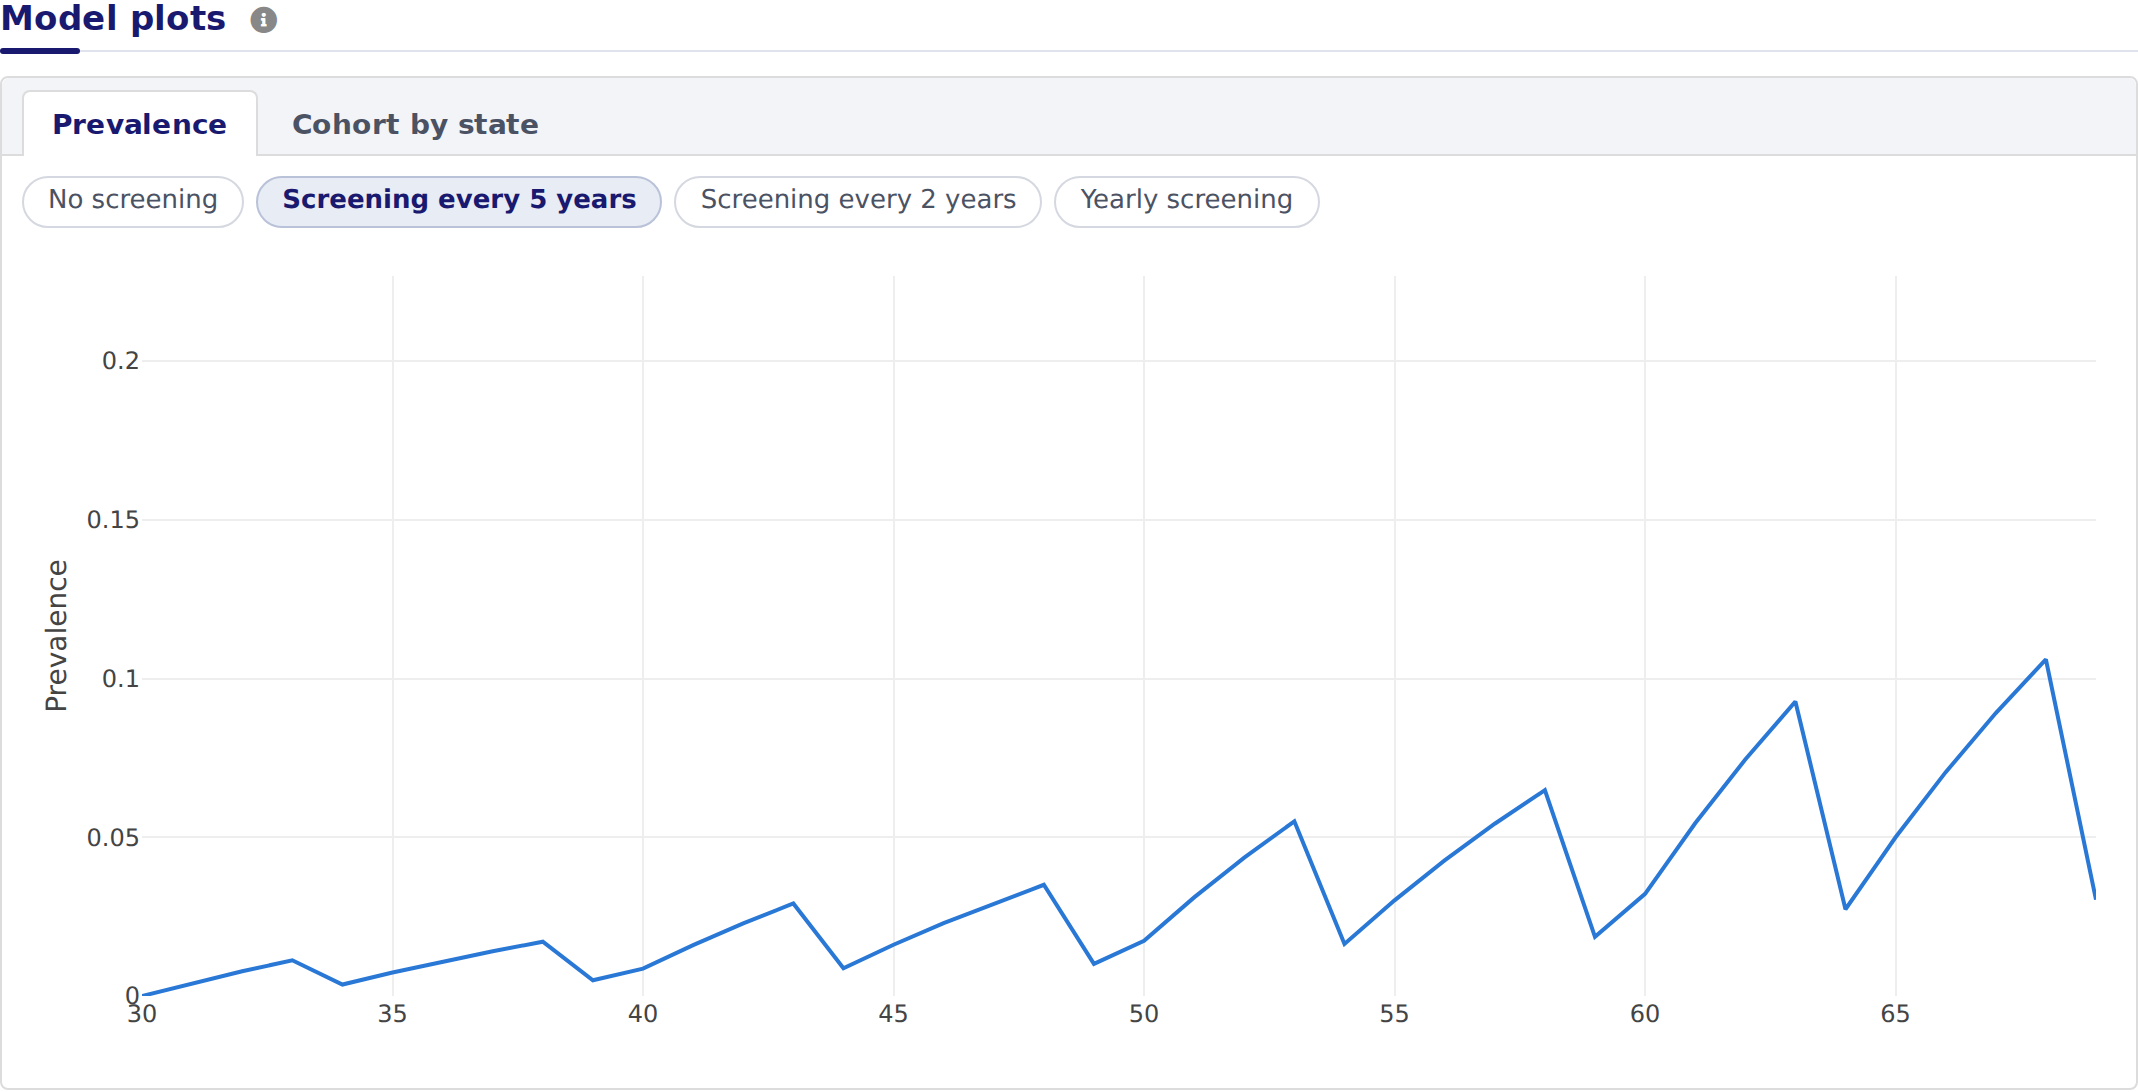
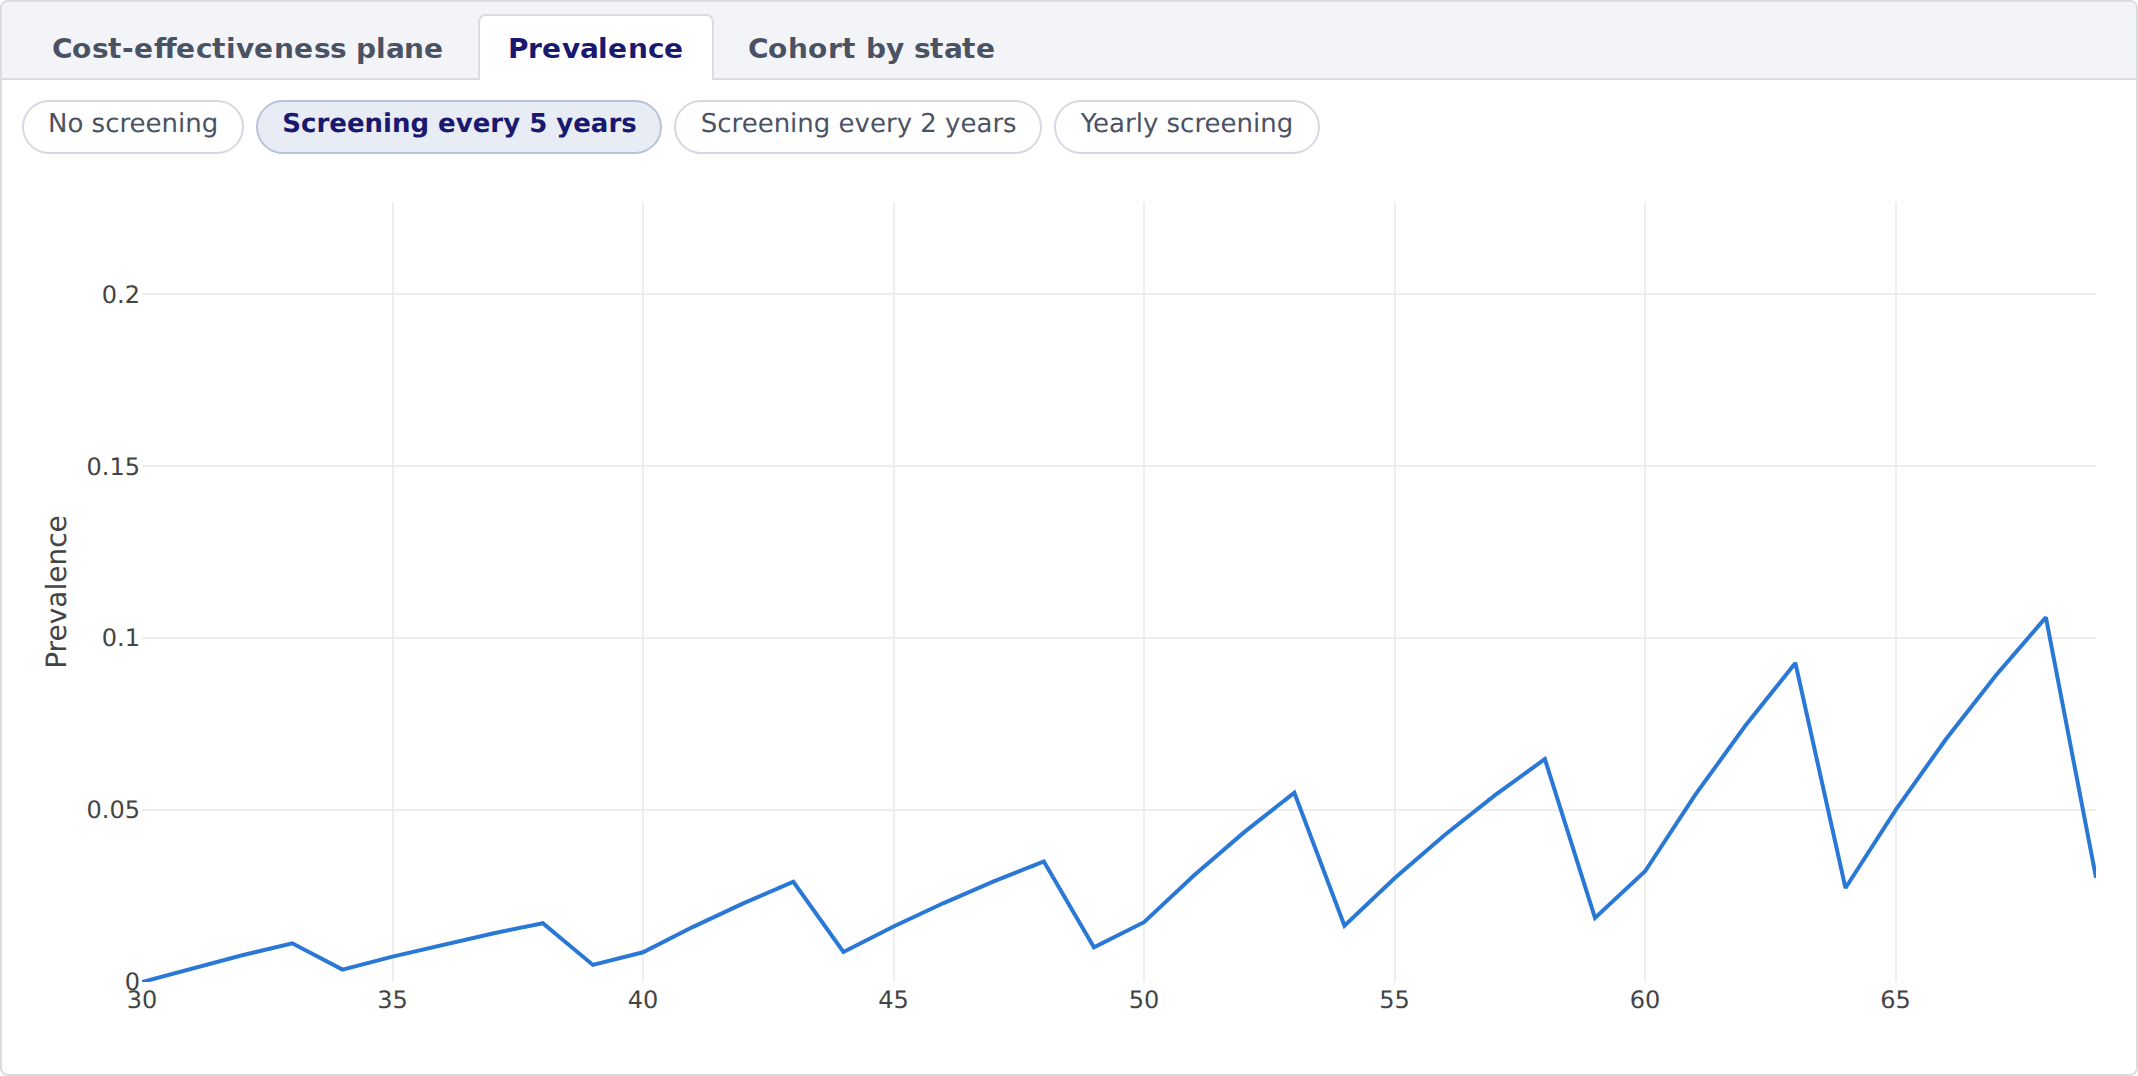
Presentation 4: show the plots of the base case as tabs after the plane

diff --git a/tutorial.md b/tutorial.md
@@ -64,14 +64,15 @@ strategy.plots <- function(trace) {
   axis, and a line in each of the others: here the share of the cohort
   in each state.
 
-Each is a tab of the *Model plots* box, under the outcomes table, with a
-button for each strategy under the tabs. Every strategy is drawn on the
-same vertical axis, so going from one to the next shows what screening
-changes. The prevalence of a screening strategy drops at every screen:
+Each is a tab of the Base case tab, after the cost-effectiveness plane,
+with a button for each strategy under the tabs. Every strategy is drawn
+on the same vertical axis, so going from one to the next shows what
+screening changes. The prevalence of a screening strategy drops at every
+screen:
 
 <figure style="margin: 15px 0;">
-<img src="https://raw.githubusercontent.com/david-gomez-guillen/cea-model-tutorial/presentation-4-plots/images/presentation4_basecase.png" alt="The model plots of the base case" style="max-width: 100%;" />
-<figcaption style="font-style: italic;">The model plots of the base case</figcaption>
+<img src="https://raw.githubusercontent.com/david-gomez-guillen/cea-model-tutorial/presentation-4-plots/images/presentation4_basecase.png" alt="A plot of the model in the Base case tab" style="max-width: 100%;" />
+<figcaption style="font-style: italic;">A plot of the model in the Base case tab</figcaption>
 </figure>
 
 ## An evaluation plot
